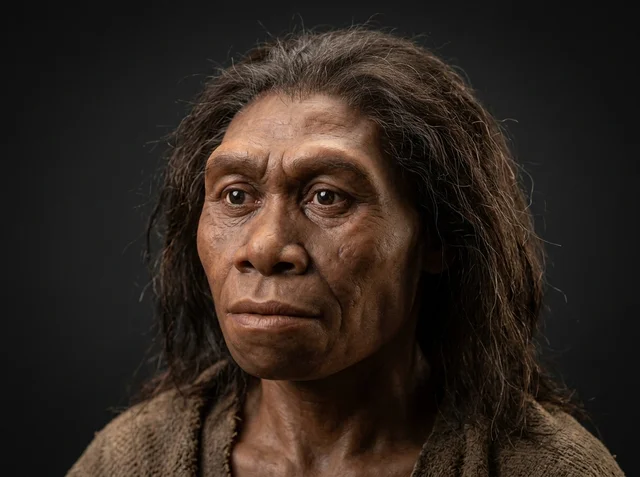
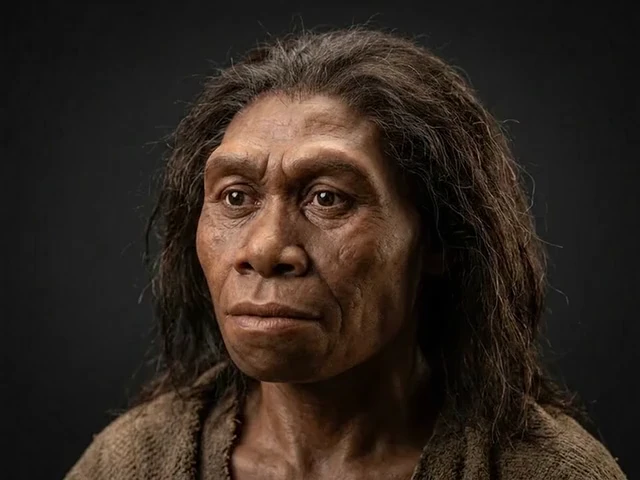
Tour species: generate seamless living portrait videos for all hominins in the Human evolution tour

diff --git a/scripts/video/species.ts b/scripts/video/species.ts
@@ -130,7 +130,7 @@ async function generateRaw(e: CuratedSpecies): Promise<string> {
  * audio track. Crop the centre 4:3 frame back to 640x480 and strip audio so frame 0 matches the WebP
  * portrait pixel-for-pixel.
  */
-function encodeVideo(input: string, out: string): number {
+function encodeVideo(input: string, out: string, imagePath?: string): number {
   mkdirSync(out.slice(0, out.lastIndexOf("/")), { recursive: true });
   execFileSync(
     "ffmpeg",
@@ -158,6 +158,34 @@ function encodeVideo(input: string, out: string): number {
     ],
     { stdio: "inherit" },
   );
+
+  if (imagePath && existsSync(out)) {
+    // Overwrite the still image with frame 0 of the final cropped video so the transition is 100% seamless
+    execFileSync(
+      "ffmpeg",
+      [
+        "-hide_banner",
+        "-loglevel",
+        "error",
+        "-y",
+        "-i",
+        out,
+        "-vframes",
+        "1",
+        "-vf",
+        "select=eq(n\\,0)",
+        "-c:v",
+        "libwebp",
+        "-lossless",
+        "0",
+        "-q:v",
+        "90",
+        imagePath,
+      ],
+      { stdio: "inherit" },
+    );
+  }
+
   return Number(execFileSync("ffprobe", ["-v", "error", "-show_entries", "format=duration", "-of", "csv=p=0", out], { encoding: "utf8" }));
 }
 
@@ -238,7 +266,8 @@ for (const e of targets) {
     console.error(`✗ ${e.id}: ${(err as Error).message}\n  Stopping here; the videos above are kept.`);
     break;
   }
-  const seconds = encodeVideo(rawPath, out);
+  const imgPath = e.image_url?.startsWith("/") ? `public${e.image_url}` : undefined;
+  const seconds = encodeVideo(rawPath, out, imgPath);
   const kb = (statSync(out).size / 1024).toFixed(0);
   const uploaded = upload(out, key);
   console.log(`${uploaded ? "✓" : "…"} ${e.id}: ${key} (${seconds.toFixed(1)} s, ${kb} KB)${uploaded ? "" : " not uploaded"}`);
